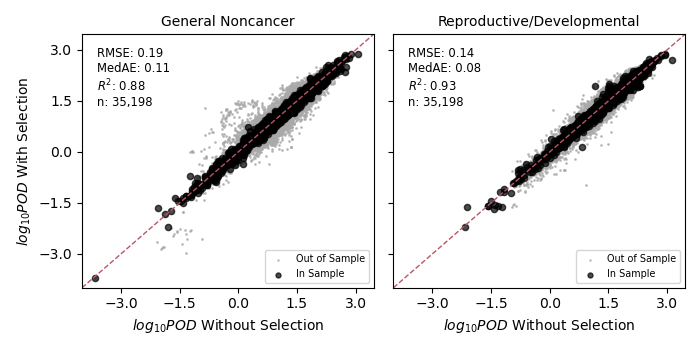
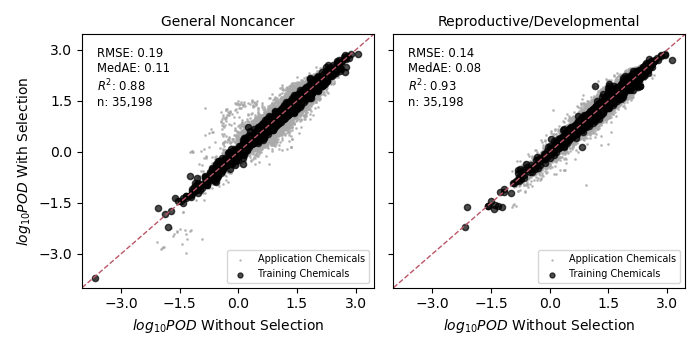
Update labels_for_sample_type: "Application Chemicals"

Changed region(s): [[0.33, 0.7143, 0.54, 0.8], [0.78, 0.7143, 0.96, 0.8]]

diff --git a/plotting/feature_completeness.py b/plotting/feature_completeness.py
@@ -29,7 +29,7 @@ def proportions_incomplete_subplots(
     AD_flags = pd.read_parquet(AD_file)
     ys = pd.read_csv(targets_file, index_col=0)
 
-    ## Plot the training set data.
+    ## Plot the data for training chemicals
     samples_for_effect = {
         plot_settings.label_for_effect[effect] : y.dropna().index 
         for effect, y in ys.items()
@@ -42,11 +42,11 @@ def proportions_incomplete_subplots(
         threshold=threshold
     )
 
-    ## Plot all chemicals data.
+    ## Plot the data for out-of-sample chemicals
     proportions_incomplete_subplot(
         X, 
         AD_flags, 
-        {plot_settings.all_chemicals_label : X.index},
+        {plot_settings.label_for_sample_type['out'] : X.index},
         base_size_per_feature=base_size_per_feature,
         threshold=threshold
     )

diff --git a/plotting/missing_features.py b/plotting/missing_features.py
@@ -88,9 +88,8 @@ def predictions_by_missing_feature(
                 
                 ## Set the Axes titles
                 effect = plot_settings.label_for_effect[key_for['target_effect']]
-                # TODO: Use plot config
-                left_title = f'{effect}\nApplication Chemicals'
-                right_title = 'Training Chemicals'
+                left_title = f"{effect}\n{plot_settings.label_for_sample_type['out']}"
+                right_title = plot_settings.label_for_sample_type['in']
 
                 axs[i, 0].set_title(left_title, size='medium', loc='left')
                 axs[i, 1].set_title(right_title, size='medium', loc='left')
